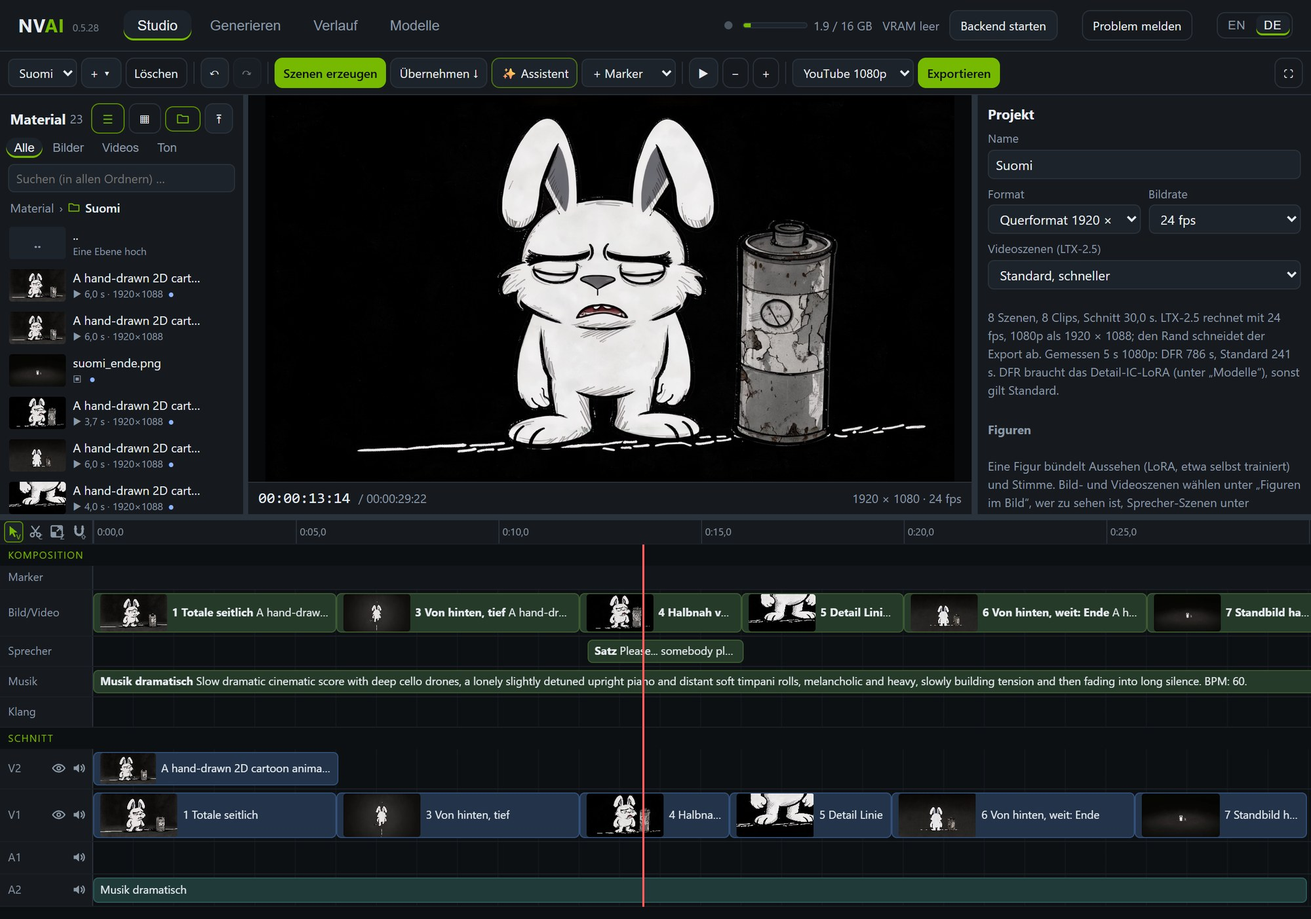
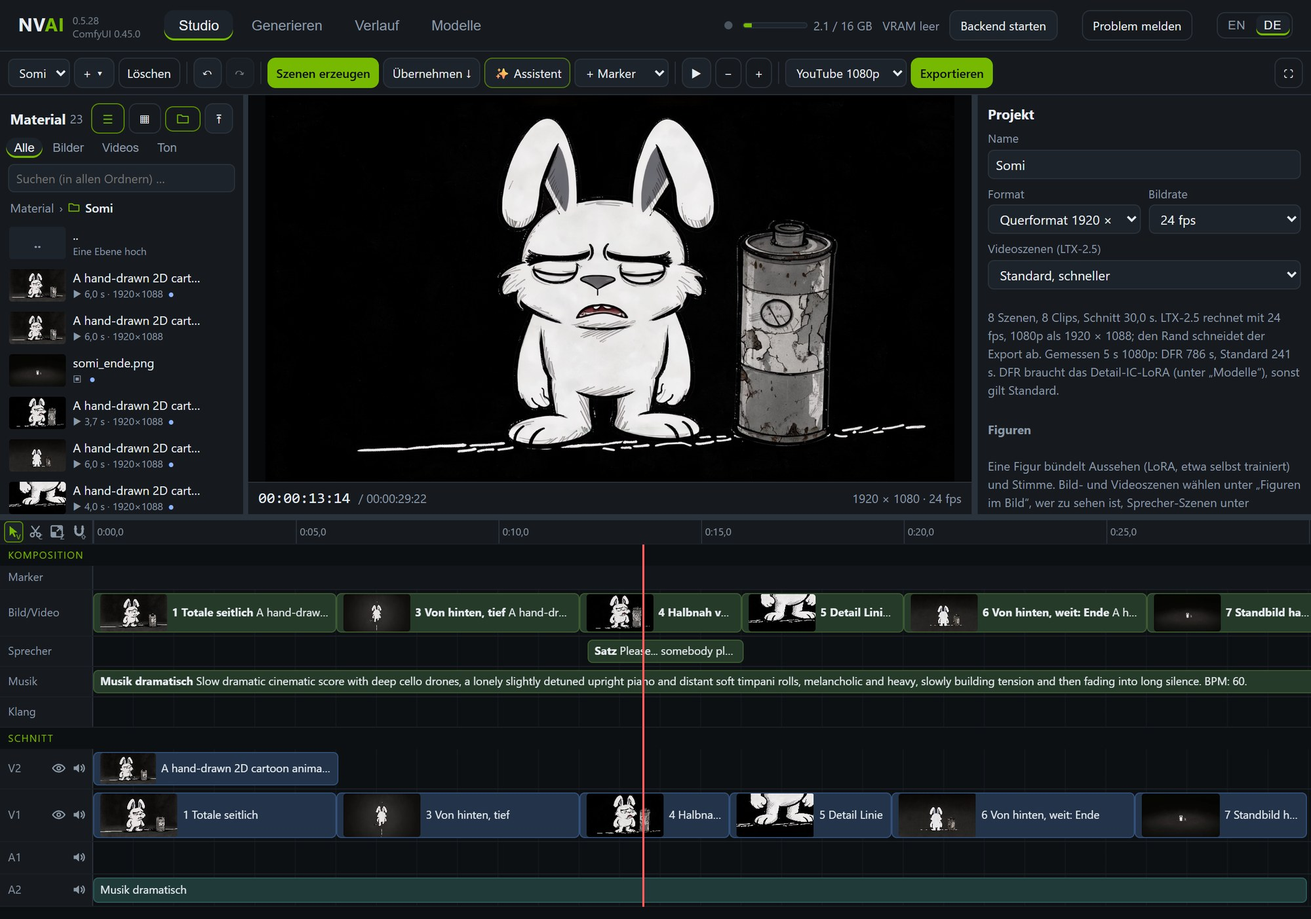
Docs: the rabbit is now called Somi
The rabbit from the short film and the Studio guide is now called Somi
instead of Suomi. The README, STUDIO.md and SHORT_FILM.md (English and
German) and the prompts quoted there use the new name. The screenshots
that showed the old name in the project, the character or the media
list are new: the Studio guide (Windows and Mac) and the short film.
The assistant's character field suggests "Somi" as an example; the
apps show it from the next release.

diff --git a/frontend/src/studio/Wizard.tsx b/frontend/src/studio/Wizard.tsx
@@ -538,7 +538,7 @@ export function Wizard({ project, onClose, onOpenProject, onDone }: {
   }
 
   /** Name aus dem ersten Satzteil der Idee (bis . ! ? : ;), lange Namen an einer Wortgrenze gekürzt; sonst
-   *  wurde aus „Suomi is in a really good mood today: the sun is …“ ein mitten im Satz abgeschnittener Name */
+   *  wurde aus „Somi is in a really good mood today: the sun is …“ ein mitten im Satz abgeschnittener Name */
   const projectName = () => {
     let name = idea.split(/[.!?:;\n]/)[0].trim() || charName.trim() || t('Mein Video', 'My video')
     if (name.length > 48) name = name.slice(0, 48).replace(/[\s,]+\S*$/, '')
@@ -943,7 +943,7 @@ export function Wizard({ project, onClose, onOpenProject, onDone }: {
                   <div className="wz-grid2">
                     <label className="wz-field">
                       <span>{t('Name', 'Name')}</span>
-                      <input value={charName} onChange={(e) => setCharName(e.target.value)} placeholder={t('z. B. Suomi', 'e.g. Suomi')} />
+                      <input value={charName} onChange={(e) => setCharName(e.target.value)} placeholder={t('z. B. Somi', 'e.g. Somi')} />
                     </label>
                     <div className="wz-field">
                       <span>{t('Eigene Vorlage (freiwillig)', 'Your own template (optional)')}</span>

diff --git a/mac/NVAIMac/Sources/UI/Studio/StudioWizard.swift b/mac/NVAIMac/Sources/UI/Studio/StudioWizard.swift
@@ -782,7 +782,7 @@ struct StudioWizard: View {
             } else if characterOn {
                 HStack(alignment: .top, spacing: 12) {
                     field(t("Name", "Name")) {
-                        TextField(t("z. B. Suomi", "e.g. Suomi"), text: $charName).textFieldStyle(.roundedBorder)
+                        TextField(t("z. B. Somi", "e.g. Somi"), text: $charName).textFieldStyle(.roundedBorder)
                     }
                     field(t("Eigene Vorlage (freiwillig)", "Your own template (optional)")) {
                         HStack {

diff --git a/server/nvai/wizard.py b/server/nvai/wizard.py
@@ -23,7 +23,7 @@ from . import db, hardware, registry, workflows
 from .hardware import MODEL_REF, REF_VRAM_GB
 
 # Gemessen auf RTX 5060 Ti 16 GB (NVFP4-Fassungen), Sekunden; Quellen: Datenbank der Installation 13.11.2026
-# (Suomi-Kurzfilm), notizen/laufzeiten.md
+# (Kurzfilm mit Somi), notizen/laufzeiten.md
 REF = {
     "character": 22.0,        # FLUX 3 Klein: 2 Entwürfe in rund 1 MP aus Text (21,4–21,9 s je Auftrag)
     "character_ref": 48.0,    # dasselbe mit einer Vorlage als Referenzbild (47–49 s)

diff --git a/docs/de/KURZFILM.md b/docs/de/KURZFILM.md
@@ -3,11 +3,11 @@
 [English](../SHORT_FILM.md)
 
 Ein Kurzfilm von 30 Sekunden mit einer gezeichneten Figur, an einem Abend mit NVAI-open entstanden. Ein müder weißer
-Hase namens Suomi zieht eine alte Batterie an einem ausgefransten Kabel hinter sich her. Die Linie, auf der er geht,
+Hase namens Somi zieht eine alte Batterie an einem ausgefransten Kabel hinter sich her. Die Linie, auf der er geht,
 zerfällt. Er hebt den Kopf, sagt „Please... somebody plug in the artist.“, setzt sich, und die Batterie erlischt.
 
 <p align="center">
-  <a href="https://www.youtube.com/watch?v=cDhmiLMU6WQ"><img src="https://i.ytimg.com/vi/cDhmiLMU6WQ/maxresdefault.jpg" width="560" alt="YouTube: der Kurzfilm mit Suomi und der Batterie"></a>
+  <a href="https://www.youtube.com/watch?v=cDhmiLMU6WQ"><img src="https://i.ytimg.com/vi/cDhmiLMU6WQ/maxresdefault.jpg" width="560" alt="YouTube: der Kurzfilm mit Somi und der Batterie"></a>
 </p>
 <p align="center"><sub>Der fertige Film auf YouTube</sub></p>
 
@@ -42,7 +42,7 @@ ausdrucksstark, auf diffusem schwarzem Grund.
   8 Bilder in 4 Haltungen, 22 s je zwei Bilder:
 
   > Hand-inked cartoon illustration with confident black brush outlines of varying thickness, flat white fill, a few
-  > loose grey hatching strokes for shading and a single accent color: Finnish flag blue. … The character is Suomi, an
+  > loose grey hatching strokes for shading and a single accent color: Finnish flag blue. … The character is Somi, an
   > original mischievous rabbit-like creature with white fur, two long ears with Finnish blue insides, the right ear
   > bent over halfway so that its tip hangs down, heavy angry slanted eyebrows, … a crooked grin full of sharp zigzag
   > shark teeth … He stands full body in a slightly turned three-quarter view, fists on his hips, grinning. Diffuse
@@ -53,7 +53,7 @@ jeder späteren Einstellung wiedererkennbar, und sie bleibt deine eigene Figur.
 
 ## 2. Eine neue Stimmung als Bearbeitung
 
-Für die Batterie-Geschichte musste Suomi müde sein, nicht böse. Ein neuer Prompt hätte einen anderen Hasen gezeichnet.
+Für die Batterie-Geschichte musste Somi müde sein, nicht böse. Ein neuer Prompt hätte einen anderen Hasen gezeichnet.
 Eine Bearbeitung des gewählten Entwurfs behält alles, was nicht erwähnt wird:
 
 ![Der Reiter Generieren mit FLUX 3 Image Klein: Der Prompt sagt, was sich ändert und was bleibt, der Entwurf ist Referenzbild 1, „Prompt ausbauen lassen“ ist aus](../images/short-film-flux-de.jpg)
@@ -63,7 +63,7 @@ Eine Bearbeitung des gewählten Entwurfs behält alles, was nicht erwähnt wird:
 3. Im Prompt sagen, was sich ändert und was gleich bleibt:
 
    > Change his mood to deeply depressed: both ears droop and hang down limply, his eyes are half closed and look down
-   > at the floor, … his shoulders slump forward and his arms hang loosely at his sides. Keep the same character Suomi
+   > at the floor, … his shoulders slump forward and his arms hang loosely at his sides. Keep the same character Somi
    > from the first image: the same white fur, the same long ears with Finnish blue insides, … the same body
    > proportions, the same hand-inked black brush outlines … Change only his facial expression and posture as
    > described.
@@ -72,7 +72,7 @@ Eine Bearbeitung des gewählten Entwurfs behält alles, was nicht erwähnt wird:
    unter **Ablegen in** das Studio-Projekt. Dann landet alles gleich im Material des Projekts.
 
 Zwei Bilder dauerten 47 s. In beiden ließ FLUX die Ohren aufrecht stehen, statt sie hängen zu lassen: Es hält sich eng
-an die Vorlage. Das mit den müden, halb geschlossenen Augen wurde der Suomi für diesen Film (rechts im Streifen oben).
+an die Vorlage. Das mit den müden, halb geschlossenen Augen wurde der Somi für diesen Film (rechts im Streifen oben).
 
 ## 3. Storyboard: ein Startbild je Einstellung
 
@@ -82,7 +82,7 @@ Ende:
 
 | Einstellung | Bildausschnitt | Was passiert |
 |---|---|---|
-| 1 | Totale | Suomi auf einer dünnen weißen Linie macht einen schweren Schritt und zieht die Batterie hinterher; ihre Anzeige steht fast auf leer |
+| 1 | Totale | Somi auf einer dünnen weißen Linie macht einen schweren Schritt und zieht die Batterie hinterher; ihre Anzeige steht fast auf leer |
 | 2 | Nah auf die Batterie | später gestrichen: Der Film wurde zu lang |
 | 3 | Von hinten, tief | er geht weg; vor ihm zerfällt die Linie in Striche |
 | 4 | Halbnah von vorn | er hebt den Kopf und sagt den Satz |
@@ -92,21 +92,21 @@ Ende:
 
 ![Die Startbilder der Einstellungen 1, 3, 4, 5 und 6 und das gehaltene letzte Bild](../images/short-film-storyboard.jpg)
 
-Jedes Startbild ist wieder eine Bearbeitung mit FLUX 3: der müde Suomi (oder die passende Ansicht von ihm, siehe
+Jedes Startbild ist wieder eine Bearbeitung mit FLUX 3: der müde Somi (oder die passende Ansicht von ihm, siehe
 unten) als Referenzbild, 1920 × 1088 (die Videogröße), zwei Bilder je Einstellung, 74–80 s. Die Prompts folgen einem
 Muster. Zuerst der Stil, dazu ein Satz gegen den typischen KI-Look, dann die Figur aus der Referenz, dann die
 Einstellung:
 
 > Hand-drawn 2D cartoon frame with imperfect, slightly wobbly black ink lines and a few loose grey hatching strokes,
 > flat and simple. The whole picture is desaturated, almost black and white in muted greys … No glossy highlights,
-> no glow effects, no lens flare, no blur, no extra details. The character is Suomi from the first image: … Wide shot
+> no glow effects, no lens flare, no blur, no extra details. The character is Somi from the first image: … Wide shot
 > from the side: … an old, worn-out cylindrical battery as tall as his chest, dented, with rust spots and a peeling
 > paper label without any text, a small round charge gauge on its side, old-fashioned like from the 1950s … Diffuse
 > black background, empty darkness all around.
 
 Was unterwegs auffiel:
 
-- **Ansichten von hinten:** Mit der Vorderansicht als einziger Referenz stand Suomi auch in den Einstellungen von
+- **Ansichten von hinten:** Mit der Vorderansicht als einziger Referenz stand Somi auch in den Einstellungen von
   hinten der Kamera zugewandt. Deshalb zeichnete FLUX ein Figurenblatt mit Vorder-, Seiten- und Rückansicht, und jede
   Ansicht wurde ausgeschnitten zur Referenz ihrer Einstellungen. Das erste Blatt zeigte einen kleinen Schwanz, der
   nicht gewollt war; das zweite entstand mit „He has no tail at all, in none of the views.“, und die Prompts von hinten
@@ -125,16 +125,16 @@ Was unterwegs auffiel:
 > An old man with a rough, gravelly, deep voice, speaking slowly, quietly and wearily with a lowered, resigned tone.
 
 Dieselbe Beschreibung klingt mit jedem Seed etwas anders. Also drei Versuche (je 7 s, sobald das Modell geladen ist),
-anhören, den besten behalten. Die gewählte Aufnahme wird Suomis Stimme:
+anhören, den besten behalten. Die gewählte Aufnahme wird Somis Stimme:
 
 1. Aus dem Material auf eine Szene in der Bahn **Sprecher** ziehen. Sie wird zum Take dieser Szene.
 2. Im Studio ins Leere klicken. Unter **Figuren** auf **+ Figur**, **Stimme: aus einer Aufnahme** wählen, die Aufnahme
    auswählen und wortgenau eintragen, was darin gesagt wird.
-3. In der Sprecher-Szene Suomi als Sprecher wählen. Neue Sätze für ihn kommen dann in derselben Stimme.
+3. In der Sprecher-Szene Somi als Sprecher wählen. Neue Sätze für ihn kommen dann in derselben Stimme.
 
-<p align="center"><img src="../images/short-film-character-de.jpg" width="400" alt="Die Figur Suomi in den Projekteinstellungen: Stimme aus einer Aufnahme, mit dem gesprochenen Text und der Sprache"></p>
+<p align="center"><img src="../images/short-film-character-de.jpg" width="400" alt="Die Figur Somi in den Projekteinstellungen: Stimme aus einer Aufnahme, mit dem gesprochenen Text und der Sprache"></p>
 
-Suomi hat hier keine LoRA, weil die Startbilder sein Aussehen tragen. Eine Figur kann ihr Aussehen auch als LoRA
+Somi hat hier keine LoRA, weil die Startbilder sein Aussehen tragen. Eine Figur kann ihr Aussehen auch als LoRA
 mitbringen, etwa eine selbst trainierte ([Figuren](STUDIO.md#figuren)).
 
 **Die Musik.** Stable Audio 3 Medium, ein Satz mit Gattung, Instrumenten, Stimmung und Tempo, 60 s, zwei Versuche mit
@@ -153,16 +153,16 @@ Szene gezogen, wird deren Take.
 - **Projekt:** 1920 × 1080 bei 24 fps. Videoszenen auf **Standard, schneller**: Der flache Zeichenstil war schon in
   Standardqualität scharf, und DFR dauert rund dreimal so lang.
 - **Eine Videoszene je Einstellung** mit LTX-2.5 und einem Absatz Prompt: Stil, Bildausschnitt, die Handlung mit
-  Verben, was still bleibt, die Kamera, der Ton. Unter **Figuren im Bild** ist Suomi angehakt; der orange Hinweis sagt
+  Verben, was still bleibt, die Kamera, der Ton. Unter **Figuren im Bild** ist Somi angehakt; der orange Hinweis sagt
   nur, dass er für dieses Modell keine LoRA hat.
 - **Das Startbild:** in den Eigenschaften unter **Startbild** das Bild aus dem Material auf das Feld ziehen oder mit
   **Aus dem Projektordner wählen …** aussuchen. Für diesen Film setzte Claude es über MCP (`studio_command`,
   `scene.update` mit `params.image_asset_id`); das Feld kam mit NVAI-open 0.5.27.
-- **Der gesprochene Satz:** eine Szene in der Bahn **Sprecher** mit dem Satz und Suomi als Sprecher, unter
+- **Der gesprochene Satz:** eine Szene in der Bahn **Sprecher** mit dem Satz und Somi als Sprecher, unter
   Einstellung 4. In Einstellung 4 zeigt **Ton aus Sprecher-Szene** auf sie. Das Video folgt dem Satz mit den Lippen und
   wird so lang wie er:
 
-<p align="center"><img src="../images/short-film-scene-de.jpg" width="400" alt="Einstellung 4 in den Eigenschaften: LTX-2.5, das Startbild, Suomi im Bild, der Ton aus der Sprecher-Szene mit dem Satz"></p>
+<p align="center"><img src="../images/short-film-scene-de.jpg" width="400" alt="Einstellung 4 in den Eigenschaften: LTX-2.5, das Startbild, Somi im Bild, der Ton aus der Sprecher-Szene mit dem Satz"></p>
 
 - **Das Ende:** das letzte Bild von Einstellung 6 als Standbild-Szene, 4,25 s in Stille gehalten. Das stille Ende
   gehörte von Anfang an zur Idee.

diff --git a/docs/SHORT_FILM.md b/docs/SHORT_FILM.md
@@ -3,11 +3,11 @@
 [Deutsch](de/KURZFILM.md)
 
 A 30-second short film with a drawn character, made in one evening with NVAI-open. A tired white rabbit called
-Suomi pulls an old battery along by a frayed cable. The line he walks on breaks apart. He looks up and says
+Somi pulls an old battery along by a frayed cable. The line he walks on breaks apart. He looks up and says
 "Please... somebody plug in the artist.", then sits down, and the battery goes dark.
 
 <p align="center">
-  <a href="https://www.youtube.com/watch?v=cDhmiLMU6WQ"><img src="https://i.ytimg.com/vi/cDhmiLMU6WQ/maxresdefault.jpg" width="560" alt="YouTube: the short film with Suomi and the battery"></a>
+  <a href="https://www.youtube.com/watch?v=cDhmiLMU6WQ"><img src="https://i.ytimg.com/vi/cDhmiLMU6WQ/maxresdefault.jpg" width="560" alt="YouTube: the short film with Somi and the battery"></a>
 </p>
 <p align="center"><sub>The finished film on YouTube</sub></p>
 
@@ -42,7 +42,7 @@ black background.
   8 images in 4 poses, 22 s per two images:
 
   > Hand-inked cartoon illustration with confident black brush outlines of varying thickness, flat white fill, a few
-  > loose grey hatching strokes for shading and a single accent color: Finnish flag blue. … The character is Suomi, an
+  > loose grey hatching strokes for shading and a single accent color: Finnish flag blue. … The character is Somi, an
   > original mischievous rabbit-like creature with white fur, two long ears with Finnish blue insides, the right ear
   > bent over halfway so that its tip hangs down, heavy angry slanted eyebrows, … a crooked grin full of sharp zigzag
   > shark teeth … He stands full body in a slightly turned three-quarter view, fists on his hips, grinning. Diffuse
@@ -53,7 +53,7 @@ in every later shot, and he stays your own character.
 
 ## 2. A new mood as an edit
 
-For the battery story Suomi had to be tired, not wicked. A new prompt would have drawn a different rabbit. An edit
+For the battery story Somi had to be tired, not wicked. A new prompt would have drawn a different rabbit. An edit
 of the chosen design keeps everything that is not mentioned:
 
 ![The Generate tab with FLUX 3 Image Klein: the prompt says what changes and what stays, the design is reference image 1, "Expand the prompt" is off](images/short-film-flux.jpg)
@@ -63,7 +63,7 @@ of the chosen design keeps everything that is not mentioned:
 3. In the prompt, say what changes and what stays the same:
 
    > Change his mood to deeply depressed: both ears droop and hang down limply, his eyes are half closed and look down
-   > at the floor, … his shoulders slump forward and his arms hang loosely at his sides. Keep the same character Suomi
+   > at the floor, … his shoulders slump forward and his arms hang loosely at his sides. Keep the same character Somi
    > from the first image: the same white fur, the same long ears with Finnish blue insides, … the same body
    > proportions, the same hand-inked black brush outlines … Change only his facial expression and posture as
    > described.
@@ -72,7 +72,7 @@ of the chosen design keeps everything that is not mentioned:
    **Save to** the Studio project. Everything then lands in the project's media.
 
 Two images took 47 s. In both, FLUX kept the ears upright instead of letting them droop: it stays close to the
-reference. The one with tired, half-closed eyes became Suomi for this film (right in the strip above).
+reference. The one with tired, half-closed eyes became Somi for this film (right in the strip above).
 
 ## 3. Storyboard: one start image per shot
 
@@ -81,7 +81,7 @@ looks the same in every shot. The plan had six shots in grey on black and a long
 
 | Shot | Framing | What happens |
 |---|---|---|
-| 1 | Wide | Suomi on a thin white line takes a heavy step and pulls the battery after him; its gauge is almost empty |
+| 1 | Wide | Somi on a thin white line takes a heavy step and pulls the battery after him; its gauge is almost empty |
 | 2 | Close on the battery | cut later: the film got too long |
 | 3 | From behind, low | he walks away; ahead the line breaks into dashes |
 | 4 | Medium, from the front | he raises his head and says the line |
@@ -91,21 +91,21 @@ looks the same in every shot. The plan had six shots in grey on black and a long
 
 ![The start images of shots 1, 3, 4, 5 and 6 and the held last frame](images/short-film-storyboard.jpg)
 
-Each start image is again an edit with FLUX 3: the tired Suomi (or the matching view of him, see below) as
+Each start image is again an edit with FLUX 3: the tired Somi (or the matching view of him, see below) as
 reference image, 1920 × 1088 (the video size), two images per shot, 74–80 s. The prompts follow one pattern. The
 style comes first, plus a sentence against the typical AI look, then the character from the reference, then the
 shot:
 
 > Hand-drawn 2D cartoon frame with imperfect, slightly wobbly black ink lines and a few loose grey hatching strokes,
 > flat and simple. The whole picture is desaturated, almost black and white in muted greys … No glossy highlights,
-> no glow effects, no lens flare, no blur, no extra details. The character is Suomi from the first image: … Wide shot
+> no glow effects, no lens flare, no blur, no extra details. The character is Somi from the first image: … Wide shot
 > from the side: … an old, worn-out cylindrical battery as tall as his chest, dented, with rust spots and a peeling
 > paper label without any text, a small round charge gauge on its side, old-fashioned like from the 1950s … Diffuse
 > black background, empty darkness all around.
 
 What came up along the way:
 
-- **Views from behind:** with only the front view as reference, Suomi stood facing the camera even in the shots
+- **Views from behind:** with only the front view as reference, Somi stood facing the camera even in the shots
   planned from behind. So FLUX drew a character sheet with a front, side and back view, and each view, cut out,
   became the reference for its shots. The first sheet showed a small tail, which was not wanted; the second was drawn
   with "He has no tail at all, in none of the views.", and the prompts from behind end with "He has no tail."
@@ -123,16 +123,16 @@ What came up along the way:
 > An old man with a rough, gravelly, deep voice, speaking slowly, quietly and wearily with a lowered, resigned tone.
 
 The same description sounds a little different with every seed. So three tries (7 s each once the model is loaded),
-listen, keep the best one. The chosen recording becomes Suomi's voice:
+listen, keep the best one. The chosen recording becomes Somi's voice:
 
 1. Drag it from the media list onto a scene on the **Voice** lane. It becomes the take of that scene.
 2. Click an empty spot in the Studio. Under **Characters**, click **+ Character**, set **Voice: from a recording**,
    pick the recording and enter what is said in it, word for word.
-3. Choose Suomi as the speaker of the voice scene. New lines for him then come in the same voice.
+3. Choose Somi as the speaker of the voice scene. New lines for him then come in the same voice.
 
-<p align="center"><img src="images/short-film-character.jpg" width="400" alt="The character Suomi in the project settings: voice from a recording, with the spoken text and the language"></p>
+<p align="center"><img src="images/short-film-character.jpg" width="400" alt="The character Somi in the project settings: voice from a recording, with the spoken text and the language"></p>
 
-Suomi has no LoRA here, because the start images carry his look. A character can also bring a look as a LoRA, for
+Somi has no LoRA here, because the start images carry his look. A character can also bring a look as a LoRA, for
 example one you trained yourself ([Characters](STUDIO.md#characters)).
 
 **The music.** Stable Audio 3 Medium, one sentence with genre, instruments, mood and tempo, 60 s, two tries at
@@ -151,15 +151,15 @@ onto a scene becomes its take.
 - **Project:** 1920 × 1080 at 24 fps. Video scenes on **Standard, faster**: the flat drawing style was already sharp
   in standard quality, and DFR takes about three times as long.
 - **One video scene per shot** with LTX-2.5 and one paragraph of prompt: style, framing, the action with verbs, what
-  stays still, the camera, the sound. Under **Characters in the picture**, Suomi is ticked; the orange note only
+  stays still, the camera, the sound. Under **Characters in the picture**, Somi is ticked; the orange note only
   says that he has no LoRA for this model.
 - **The start image:** under **Start image** in the properties, drag the image from the media list onto the field
   or pick it with **Choose from the project folder …**. For this film Claude set it over MCP (`studio_command`,
   `scene.update` with `params.image_asset_id`); the field came with NVAI-open 0.5.27.
-- **The spoken line:** a scene on the **Voice** lane with the line and Suomi as speaker, placed under shot 4. In
+- **The spoken line:** a scene on the **Voice** lane with the line and Somi as speaker, placed under shot 4. In
   shot 4, **Sound from voice scene** points to it. The video follows the line with the lips and takes its length:
 
-<p align="center"><img src="images/short-film-scene.jpg" width="400" alt="Shot 4 in the properties: LTX-2.5, the start image, Suomi in the picture, the sound from the voice scene with the line"></p>
+<p align="center"><img src="images/short-film-scene.jpg" width="400" alt="Shot 4 in the properties: LTX-2.5, the start image, Somi in the picture, the sound from the voice scene with the line"></p>
 
 - **The ending:** the last frame of shot 6 as a still image scene, held for 4.25 s in silence. The quiet end was part
   of the idea from the start.

diff --git a/README.md b/README.md
@@ -81,7 +81,7 @@ The Studio is the first tab when NVAI-open starts. At the top you compose: scene
 
 Step by step: [docs/STUDIO.md](docs/STUDIO.md)
 
-**The short film with the rabbit:** Suomi began as a quick hand sketch. FLUX 3 made a character of it and, as an edit, gave him a tired mood; each shot got a start image, Qwen3-TTS spoke his line, Stable Audio 3 made the music, and LTX-2.5 animated the shots in the Studio, the line with his lips. Claude Code operated the app over MCP, every decision was made by a person, and the 30 seconds took about 50 minutes on one graphics card. [Step by step with screenshots](docs/SHORT_FILM.md) · [The film on YouTube](https://www.youtube.com/watch?v=cDhmiLMU6WQ)
+**The short film with the rabbit:** Somi began as a quick hand sketch. FLUX 3 made a character of it and, as an edit, gave him a tired mood; each shot got a start image, Qwen3-TTS spoke his line, Stable Audio 3 made the music, and LTX-2.5 animated the shots in the Studio, the line with his lips. Claude Code operated the app over MCP, every decision was made by a person, and the 30 seconds took about 50 minutes on one graphics card. [Step by step with screenshots](docs/SHORT_FILM.md) · [The film on YouTube](https://www.youtube.com/watch?v=cDhmiLMU6WQ)
 
 ![The short film in the Studio: the shots on the Picture lane, the voice line below shot 4, the music across the whole film; below, the edit with the chosen takes](docs/images/short-film-studio.jpg)
 
@@ -258,11 +258,11 @@ The code is under the [MIT License](LICENSE): do whatever you want with it. Thir
 ## Video
 
 <p align="center">
-  <a href="https://www.youtube.com/watch?v=cDhmiLMU6WQ"><img src="https://i.ytimg.com/vi/cDhmiLMU6WQ/maxresdefault.jpg" width="480" alt="YouTube: a short film with the rabbit Suomi, made in the NVAI Studio"></a>
+  <a href="https://www.youtube.com/watch?v=cDhmiLMU6WQ"><img src="https://i.ytimg.com/vi/cDhmiLMU6WQ/maxresdefault.jpg" width="480" alt="YouTube: a short film with the rabbit Somi, made in the NVAI Studio"></a>
 </p>
 
-<p align="center">A short film with the rabbit Suomi, from a hand sketch to the export in the Studio, on YouTube (<a href="docs/SHORT_FILM.md">how it was made</a>).<br>
-Ein Kurzfilm mit dem Hasen Suomi, von der Handskizze bis zum Export im Studio, auf YouTube (<a href="docs/de/KURZFILM.md">wie er entstand</a>).<br>
+<p align="center">A short film with the rabbit Somi, from a hand sketch to the export in the Studio, on YouTube (<a href="docs/SHORT_FILM.md">how it was made</a>).<br>
+Ein Kurzfilm mit dem Hasen Somi, von der Handskizze bis zum Export im Studio, auf YouTube (<a href="docs/de/KURZFILM.md">wie er entstand</a>).<br>
 <a href="https://www.youtube.com/watch?v=cDhmiLMU6WQ">youtube.com/watch?v=cDhmiLMU6WQ</a></p>
 
 <p align="center">
@@ -335,7 +335,7 @@ Das Studio ist der erste Reiter, wenn NVAI-open startet. Oben komponierst du: Sz
 
 Schritt für Schritt: [docs/de/STUDIO.md](docs/de/STUDIO.md)
 
-**Der Kurzfilm mit dem Hasen:** Suomi begann als schnelle Handskizze. FLUX 3 machte daraus eine Figur und gab ihr als Bearbeitung eine müde Stimmung; jede Einstellung bekam ein Startbild, Qwen3-TTS sprach seinen Satz, Stable Audio 3 machte die Musik, und LTX-2.5 bewegte die Einstellungen im Studio, den Satz mit seinen Lippen. Claude Code bediente die App über MCP, die Entscheidungen traf ein Mensch, und die 30 Sekunden brauchten rund 50 Minuten auf einer Grafikkarte. [Schritt für Schritt mit Bildern](docs/de/KURZFILM.md) · [Der Film auf YouTube](https://www.youtube.com/watch?v=cDhmiLMU6WQ)
+**Der Kurzfilm mit dem Hasen:** Somi begann als schnelle Handskizze. FLUX 3 machte daraus eine Figur und gab ihr als Bearbeitung eine müde Stimmung; jede Einstellung bekam ein Startbild, Qwen3-TTS sprach seinen Satz, Stable Audio 3 machte die Musik, und LTX-2.5 bewegte die Einstellungen im Studio, den Satz mit seinen Lippen. Claude Code bediente die App über MCP, die Entscheidungen traf ein Mensch, und die 30 Sekunden brauchten rund 50 Minuten auf einer Grafikkarte. [Schritt für Schritt mit Bildern](docs/de/KURZFILM.md) · [Der Film auf YouTube](https://www.youtube.com/watch?v=cDhmiLMU6WQ)
 
 ![Der Kurzfilm im Studio: die Einstellungen in der Bahn Bild/Video, der Satz unter Einstellung 4, die Musik über den ganzen Film; darunter der Schnitt mit den gewählten Takes](docs/images/short-film-studio-de.jpg)
 

diff --git a/docs/de/STUDIO.md b/docs/de/STUDIO.md
@@ -59,7 +59,7 @@ fragt einmal beim Start und bei jedem neuen Projekt („Nicht mehr anzeigen“ s
 <td><img src="../images/studio-wizard-board-de.jpg" alt="Schritt 7: zwei Startbilder je Szene, die gewählten sind markiert"></td>
 </tr></table>
 
-Die Bilder dieser Anleitung stammen aus einem solchen Lauf: Suomi, der Hase aus dem [Kurzfilm](KURZFILM.md), legt auf,
+Die Bilder dieser Anleitung stammen aus einem solchen Lauf: Somi, der Hase aus dem [Kurzfilm](KURZFILM.md), legt auf,
 im Stil „Tusche“ wie im Film und in der Stimmung „Lässig“, mit seinem Bild als Vorlage, drei Szenen und einem Satz.
 
 Die Prompts baut der Assistent aus festen englischen Bausteinen und deinen Worten. Deine Beschreibungen werden vorher
@@ -150,7 +150,7 @@ Projekteinstellungen; unter „Figuren“ legt „+ Figur“ eine an:
 - **Stimme:** wie bei einer Sprecher-Szene: beschreiben, vom Take einer Sprecher-Szene übernehmen oder aus einer
   Aufnahme. Klingt ein Satz richtig, ihn als Vorlage wählen, dann behalten alle weiteren Sätze diese Stimme.
 
-![Das Studio mit einer Figur: Suomi mit einer beschriebenen Stimme; im Monitor die Nahaufnahme, in der er seinen Satz spricht](../images/studio-characters-de.jpg)
+![Das Studio mit einer Figur: Somi mit einer beschriebenen Stimme; im Monitor die Nahaufnahme, in der er seinen Satz spricht](../images/studio-characters-de.jpg)
 
 Danach die Figur in den Szenen zuordnen:
 
@@ -341,7 +341,7 @@ Was der Mac anders macht:
 - **REST:** dieselben `/api/studio/*` wie unter Windows, unter `http://127.0.0.1:8100`.
 
 Gemessen auf einem Mac mini M1 mit 8 GB: Drei Testszenen (ein 2-Sekunden-Video, ein Standbild, 6 s Musik) brauchten
-320 s, der Export von 9 Sekunden in 1080p 2 s. Der Lauf des Assistenten aus dieser Anleitung (Suomi, drei Szenen zu
+320 s, der Export von 9 Sekunden in 1080p 2 s. Der Lauf des Assistenten aus dieser Anleitung (Somi, drei Szenen zu
 4 s, ein Satz und Musik) brauchte auf demselben Mac 38 Minuten: vier Entwürfe 14 min, sechs Startbilder 15 min, drei
 Clips 8,5 min.
 

diff --git a/docs/STUDIO.md b/docs/STUDIO.md
@@ -58,7 +58,7 @@ Studio asks once when it starts and for every new project ("Don't show again" sw
 <td><img src="images/studio-wizard-board.jpg" alt="Step 7: two start images per scene, the chosen ones are marked"></td>
 </tr></table>
 
-The pictures in this guide come from one such run: Suomi, the rabbit from the [short film](SHORT_FILM.md), on the
+The pictures in this guide come from one such run: Somi, the rabbit from the [short film](SHORT_FILM.md), on the
 decks, in the "Ink" style of the film and the "Cool" mood, with his picture as the template, three scenes and one
 line.
 
@@ -147,7 +147,7 @@ project settings; under "Characters", "+ Character" adds one:
 - **Voice:** as with a voice scene: describe it, take it over from the take of a voice scene, or from a recording.
   Once a line sounds right, choose it as the reference, so every further line keeps that voice.
 
-![The Studio with a character: Suomi with a described voice; in the monitor the close-up in which he speaks his line](images/studio-characters.jpg)
+![The Studio with a character: Somi with a described voice; in the monitor the close-up in which he speaks his line](images/studio-characters.jpg)
 
 Then assign the character in the scenes:
 
@@ -330,7 +330,7 @@ What the Mac does differently:
 - **REST:** the same `/api/studio/*` as on Windows, at `http://127.0.0.1:8100`.
 
 Measured on a Mac mini M1 with 8 GB: three test scenes (a 2-second video, a still image, 6 s of music) took 320 s,
-exporting 9 seconds at 1080p took 2 s. The assistant run from this guide (Suomi, three scenes of 4 s, a line and music)
+exporting 9 seconds at 1080p took 2 s. The assistant run from this guide (Somi, three scenes of 4 s, a line and music)
 took 38 minutes on the same Mac: four drafts 14 min, six start images 15 min, three clips 8.5 min.
 
 ![The assistant on the Mac: the times for this Mac from the hardware catalog](images/studio-mac-wizard.jpg)
